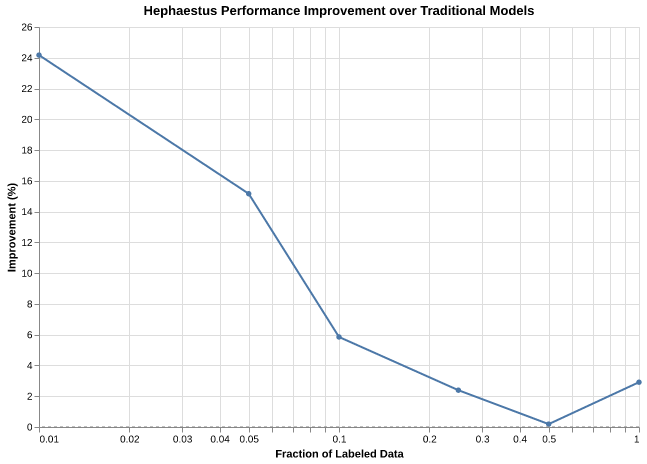
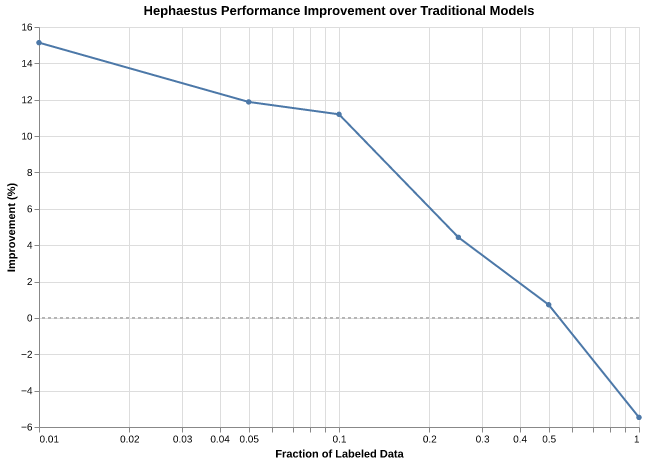
Add XGBoost model training and evaluation to enhance performance analysis

diff --git a/turbine_limited.py b/turbine_limited.py
@@ -29,6 +29,7 @@ from pytorch_lightning.callbacks import (
 from pytorch_lightning.loggers import TensorBoardLogger
 from sklearn.ensemble import RandomForestRegressor
 from sklearn.linear_model import LinearRegression
+from xgboost import XGBRegressor
 from sklearn.metrics import mean_absolute_error, mean_squared_error
 from sklearn.model_selection import train_test_split
 from sklearn.preprocessing import StandardScaler
@@ -90,7 +91,7 @@ df["target"] = target_scaler.fit_transform(df[["target"]]).flatten()
 # Add categorical column AFTER scaling to avoid type issues
 df["cat_column"] = "category"  # Dummy category for bugs in data loader
 # Ensure categorical column is properly typed
-df["cat_column"] = df["cat_column"].astype('category')
+df["cat_column"] = df["cat_column"].astype("category")
 print(f"Data types after processing: {df.dtypes}")
 df.head()
 
@@ -164,7 +165,7 @@ if run_trainer:
     )
     model_summary = ModelSummary(max_depth=3)
     early_stopping = EarlyStopping(
-        monitor="val_loss", patience=15, min_delta=0.001, mode="min"
+        monitor="val_loss", patience=15, min_delta=0.0001, mode="min"
     )
     progress_bar = TQDMProgressBar(leave=False)
     trainer = L.Trainer(
@@ -445,6 +446,59 @@ def train_random_forest(df_train, df_test, label_ratio=1.0):
 
 
 # %%
+def train_xgboost(df_train, df_test, label_ratio=1.0):
+    """
+    Train an XGBoost model on a subset of labeled data.
+
+    Args:
+        df_train: Training dataframe
+        df_test: Test dataframe
+        label_ratio: Percentage of labeled data to use for training
+
+    Returns:
+        Dictionary containing the trained model and performance metrics
+    """
+    # Train on subset of data
+    train_df_sub_set = df_train.sample(frac=label_ratio, random_state=42)
+    X_train_sub_set = train_df_sub_set.drop(columns=["target"])
+    y_train_sub_set = train_df_sub_set["target"]
+
+    # Use only numeric columns for sklearn models
+    X_train_sub_set_skl = X_train_sub_set.select_dtypes(include=[np.number])
+    X_test_skl = df_test.drop(columns=["target"]).select_dtypes(include=[np.number])
+    y_test = df_test["target"]
+
+    # Train the model
+    xgb_model = XGBRegressor(random_state=0, verbosity=0)
+    xgb_model.fit(X_train_sub_set_skl, y_train_sub_set)
+
+    # Evaluate
+    y_pred = xgb_model.predict(X_test_skl)
+
+    # Convert scaled predictions back to original scale for metrics
+    y_test_unscaled = target_scaler.inverse_transform(
+        y_test.values.reshape(-1, 1)
+    ).flatten()
+    y_pred_unscaled = target_scaler.inverse_transform(y_pred.reshape(-1, 1)).flatten()
+
+    # Calculate metrics on unscaled values
+    mse = mean_squared_error(y_test_unscaled, y_pred_unscaled)
+    rmse = np.sqrt(mse)
+    mae = mean_absolute_error(y_test_unscaled, y_pred_unscaled)
+
+    # Return model and metrics
+    return {
+        "model": xgb_model,
+        "mse": mse,
+        "rmse": rmse,
+        "mae": mae,
+        "y_true": y_test_unscaled,
+        "y_pred": y_pred_unscaled,
+        "label_ratio": label_ratio,
+    }
+
+
+# %%
 Markdown("""## Evaluate Models on Different Data Fractions
 
 We'll train and evaluate each model on different fractions of labeled data.
@@ -458,6 +512,7 @@ data_fractions = [0.01, 0.05, 0.1, 0.25, 0.5, 1.0]
 hephaestus_results = []
 lr_results = []
 rf_results = []
+xgb_results = []
 
 # Train and evaluate models on each data fraction
 for fraction in data_fractions:
@@ -480,6 +535,11 @@ for fraction in data_fractions:
     rf_result = train_random_forest(df_train, df_test, label_ratio=fraction)
     rf_results.append(rf_result)
 
+    # Train XGBoost model
+    print("Training XGBoost model...")
+    xgb_result = train_xgboost(df_train, df_test, label_ratio=fraction)
+    xgb_results.append(xgb_result)
+
     print(f"Results with {fraction * 100}% of labeled data:")
     print(
         f"  Hephaestus MSE: {hep_result['mse']:.3f}, RMSE: {hep_result['rmse']:.3f}, MAE: {hep_result['mae']:.3f}"
@@ -489,6 +549,9 @@ for fraction in data_fractions:
     )
     print(
         f"  Random Forest MSE: {rf_result['mse']:.3f}, RMSE: {rf_result['rmse']:.3f}, MAE: {rf_result['mae']:.3f}"
+    )
+    print(
+        f"  XGBoost MSE: {xgb_result['mse']:.3f}, RMSE: {xgb_result['rmse']:.3f}, MAE: {xgb_result['mae']:.3f}"
     )
 
 # %%
@@ -530,6 +593,18 @@ for result in rf_results:
     results_rows.append(
         {
             "Model": "Random Forest",
+            "Label Ratio": result["label_ratio"],
+            "MSE": result["mse"],
+            "RMSE": result["rmse"],
+            "MAE": result["mae"],
+        }
+    )
+
+# Add XGBoost results
+for result in xgb_results:
+    results_rows.append(
+        {
+            "Model": "XGBoost",
             "Label Ratio": result["label_ratio"],
             "MSE": result["mse"],
             "RMSE": result["rmse"],
@@ -641,6 +716,7 @@ hep_result_10 = next(
 )
 lr_result_10 = next(r for r in lr_results if r["label_ratio"] == ratio_10_percent)
 rf_result_10 = next(r for r in rf_results if r["label_ratio"] == ratio_10_percent)
+xgb_result_10 = next(r for r in xgb_results if r["label_ratio"] == ratio_10_percent)
 
 # Create result dataframes
 res_df = pd.DataFrame(
@@ -651,6 +727,9 @@ res_df_lr = pd.DataFrame(
 )
 res_df_rf = pd.DataFrame(
     {"Actual": rf_result_10["y_true"], "Predicted": rf_result_10["y_pred"]}
+)
+res_df_xgb = pd.DataFrame(
+    {"Actual": xgb_result_10["y_true"], "Predicted": xgb_result_10["y_pred"]}
 )
 
 # %% Plot individual model results
@@ -676,6 +755,14 @@ plot_prediction_analysis(
     y_hat_col="Predicted",
     it_color="scikit",
 )
+# %%
+plot_prediction_analysis(
+    df=res_df_xgb,
+    name="XGBoost (10% data)",
+    y_col="Actual",
+    y_hat_col="Predicted",
+    it_color="scikit",
+)
 
 # %%
 # Create a combined bar chart for the 10% case
@@ -684,11 +771,13 @@ mse_data_10 = pd.DataFrame(
         "Model": [
             "Linear Regression",
             "Random Forest",
+            "XGBoost",
             "Hephaestus",
         ],
         "MSE": [
             lr_result_10["mse"],
             rf_result_10["mse"],
+            xgb_result_10["mse"],
             hep_result_10["mse"],
         ],
     }
@@ -713,7 +802,8 @@ mse_chart_10.show()
 # %%
 Markdown("""## Performance Improvement Analysis
 
-Calculate how much better Hephaestus performs compared to traditional models at each data fraction.
+Calculate how much better Hephaestus performs compared to traditional models at each 
+data fraction.
 """)
 
 # Calculate performance improvement percentages
@@ -724,12 +814,14 @@ for fraction in data_fractions:
     hep_result = next(r for r in hephaestus_results if r["label_ratio"] == fraction)
     lr_result = next(r for r in lr_results if r["label_ratio"] == fraction)
     rf_result = next(r for r in rf_results if r["label_ratio"] == fraction)
+    xgb_result = next(r for r in xgb_results if r["label_ratio"] == fraction)
 
     # Calculate best traditional model MSE at this fraction
-    trad_mse = min(lr_result["mse"], rf_result["mse"])
-    best_trad_model = (
-        "Linear Regression" if lr_result["mse"] < rf_result["mse"] else "Random Forest"
-    )
+    trad_mses = [lr_result["mse"], rf_result["mse"], xgb_result["mse"]]
+    trad_models = ["Linear Regression", "Random Forest", "XGBoost"]
+    best_trad_idx = trad_mses.index(min(trad_mses))
+    trad_mse = trad_mses[best_trad_idx]
+    best_trad_model = trad_models[best_trad_idx]
 
     # Calculate improvement percentage
     improvement_pct = ((trad_mse - hep_result["mse"]) / trad_mse) * 100
